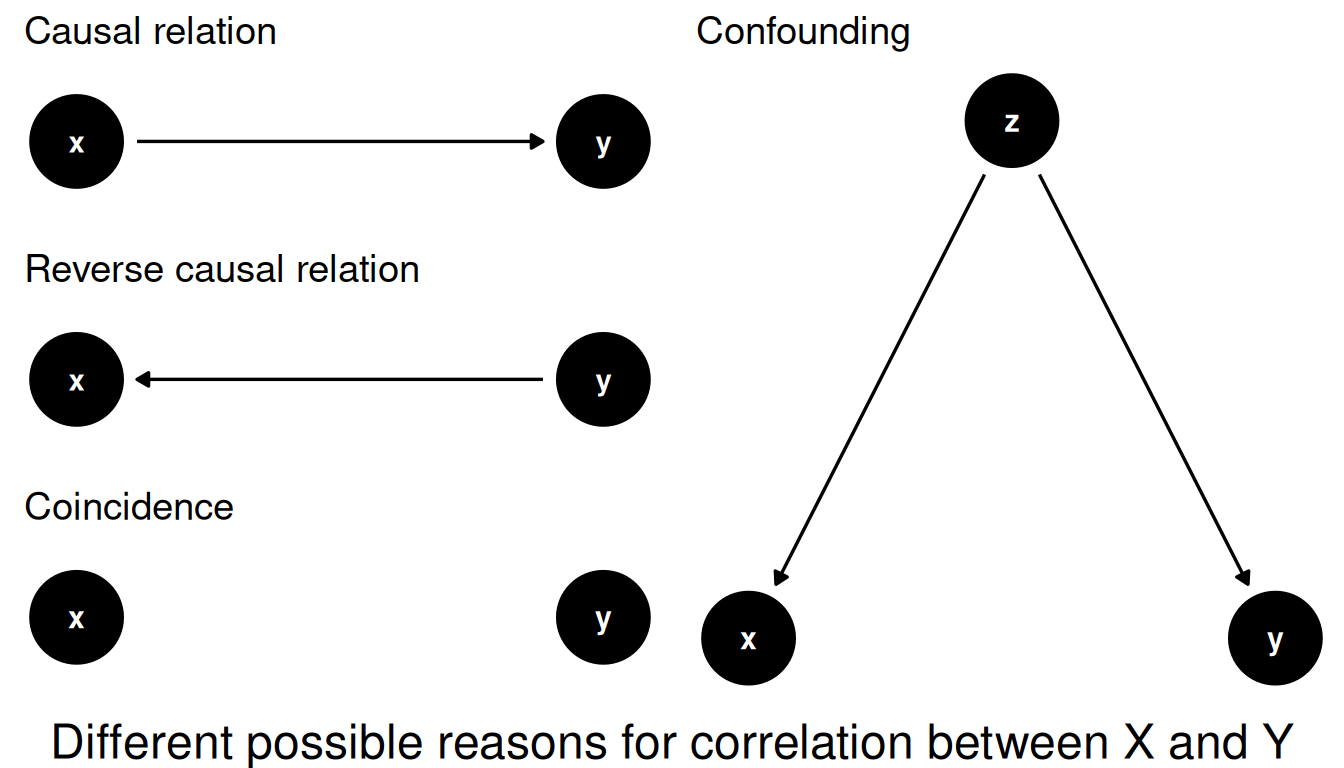
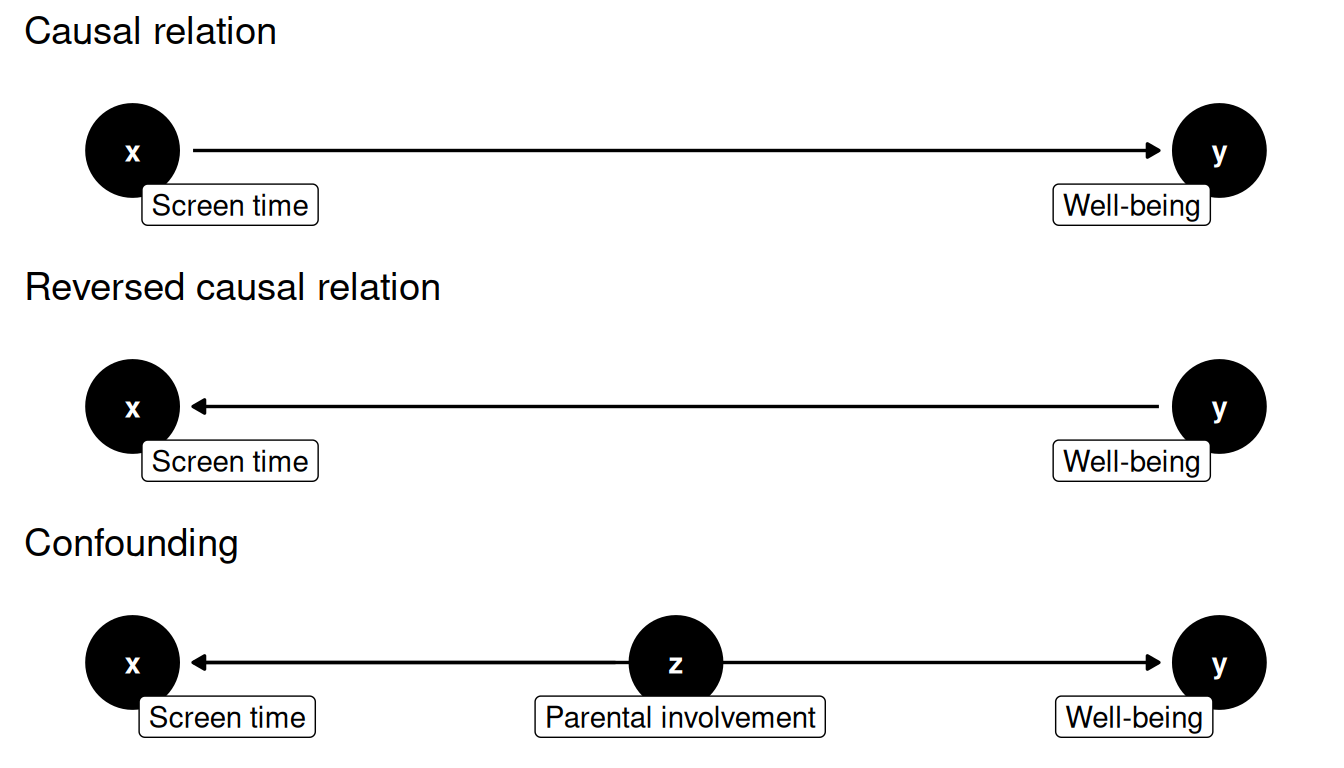
updated causality

diff --git a/_site/analysis/concepts/causality.html b/_site/analysis/concepts/causality.html
@@ -372,7 +372,10 @@ window.Quarto = {
    
   <ul>
   <li><a href="#testing-causal-relations" id="toc-testing-causal-relations" class="nav-link active" data-scroll-target="#testing-causal-relations">Testing causal relations</a></li>
-  <li><a href="#why-correlation-does-not-imply-causation" id="toc-why-correlation-does-not-imply-causation" class="nav-link" data-scroll-target="#why-correlation-does-not-imply-causation">Why correlation does not imply causation</a></li>
+  <li><a href="#why-correlation-does-not-imply-causation" id="toc-why-correlation-does-not-imply-causation" class="nav-link" data-scroll-target="#why-correlation-does-not-imply-causation">Why correlation does not imply causation</a>
+  <ul class="collapse">
+  <li><a href="#visualizing-causation" id="toc-visualizing-causation" class="nav-link" data-scroll-target="#visualizing-causation">Visualizing causation</a></li>
+  </ul></li>
   <li><a href="#how-to-better-establish-causation" id="toc-how-to-better-establish-causation" class="nav-link" data-scroll-target="#how-to-better-establish-causation">How to (better) establish causation</a>
   <ul class="collapse">
   <li><a href="#theoretical-foundation" id="toc-theoretical-foundation" class="nav-link" data-scroll-target="#theoretical-foundation">Theoretical foundation</a></li>
@@ -449,6 +452,9 @@ Famous spurious correlations
 </div>
 </div>
 </div>
+<section id="visualizing-causation" class="level2">
+<h2 class="anchored" data-anchor-id="visualizing-causation">Visualizing causation</h2>
+<p>To develop a good intuition for the difference between correlation and causation, it helps to have a good mental model of what a causal relationship looks like. A good way to do this is to use <strong>Directed Acyclic Graphs</strong> (DAGs), which are a visual way to represent causal relationships. Simply put, these are graphs where the arrows indicate the direction of the causal relationship. Here are three DAGs that show different reasons for a correlation between X and Y. X represents what we believe to be the cause (e.g., screen time), and Y the effect (e.g., well-being). Z represents a confounding variable (e.g., parental involvement).</p>
 <div class="cell">
 <div class="cell-output-display">
 <div>
@@ -458,6 +464,8 @@ Famous spurious correlations
 </div>
 </div>
 </div>
+<p>This shows why a correlation between X and Y is not enough to establish causation. Each of these DAGs shows a different reason for the correlation between X and Y, but only the first one supports our hypothesis that X causes Y. Our job as researchers is to figure out which of these DAGs is best supported by empirical evidence.</p>
+</section>
 </section>
 <section id="how-to-better-establish-causation" class="level1">
 <h1>How to (better) establish causation</h1>
